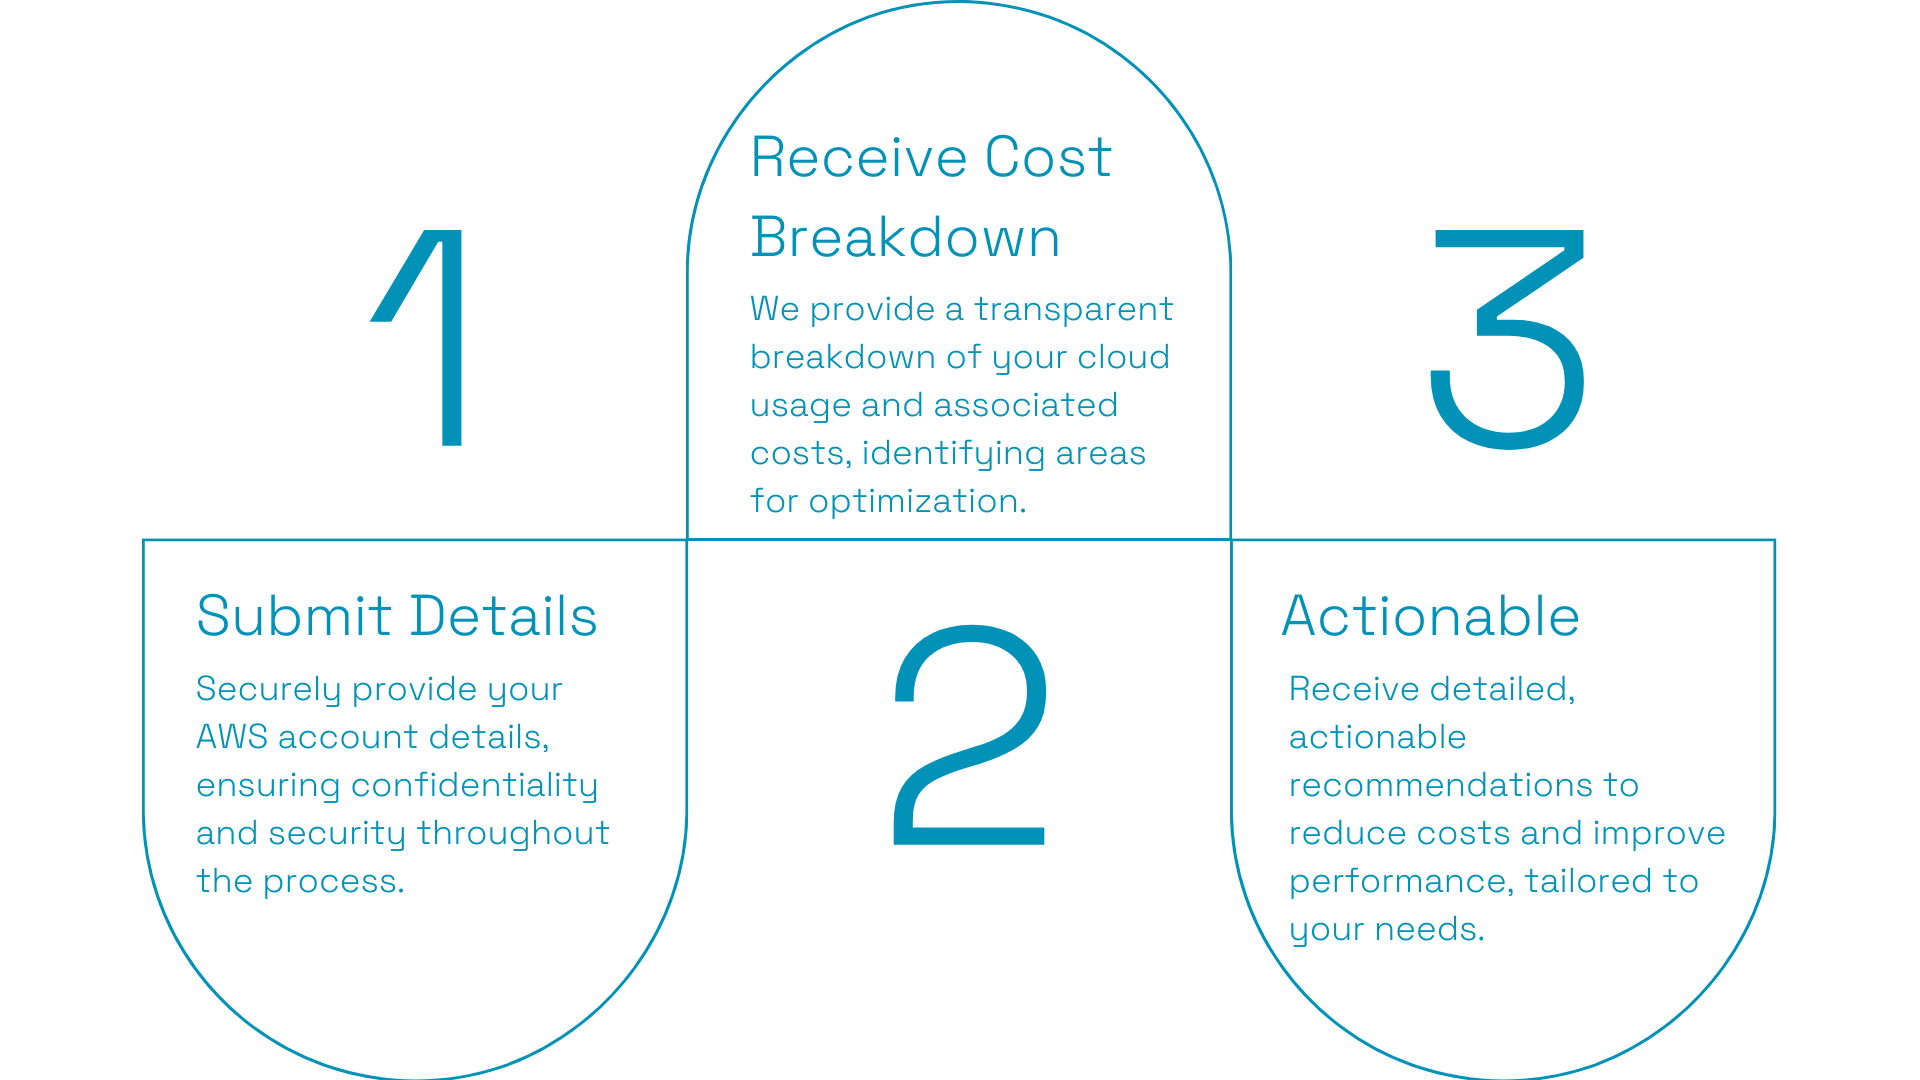
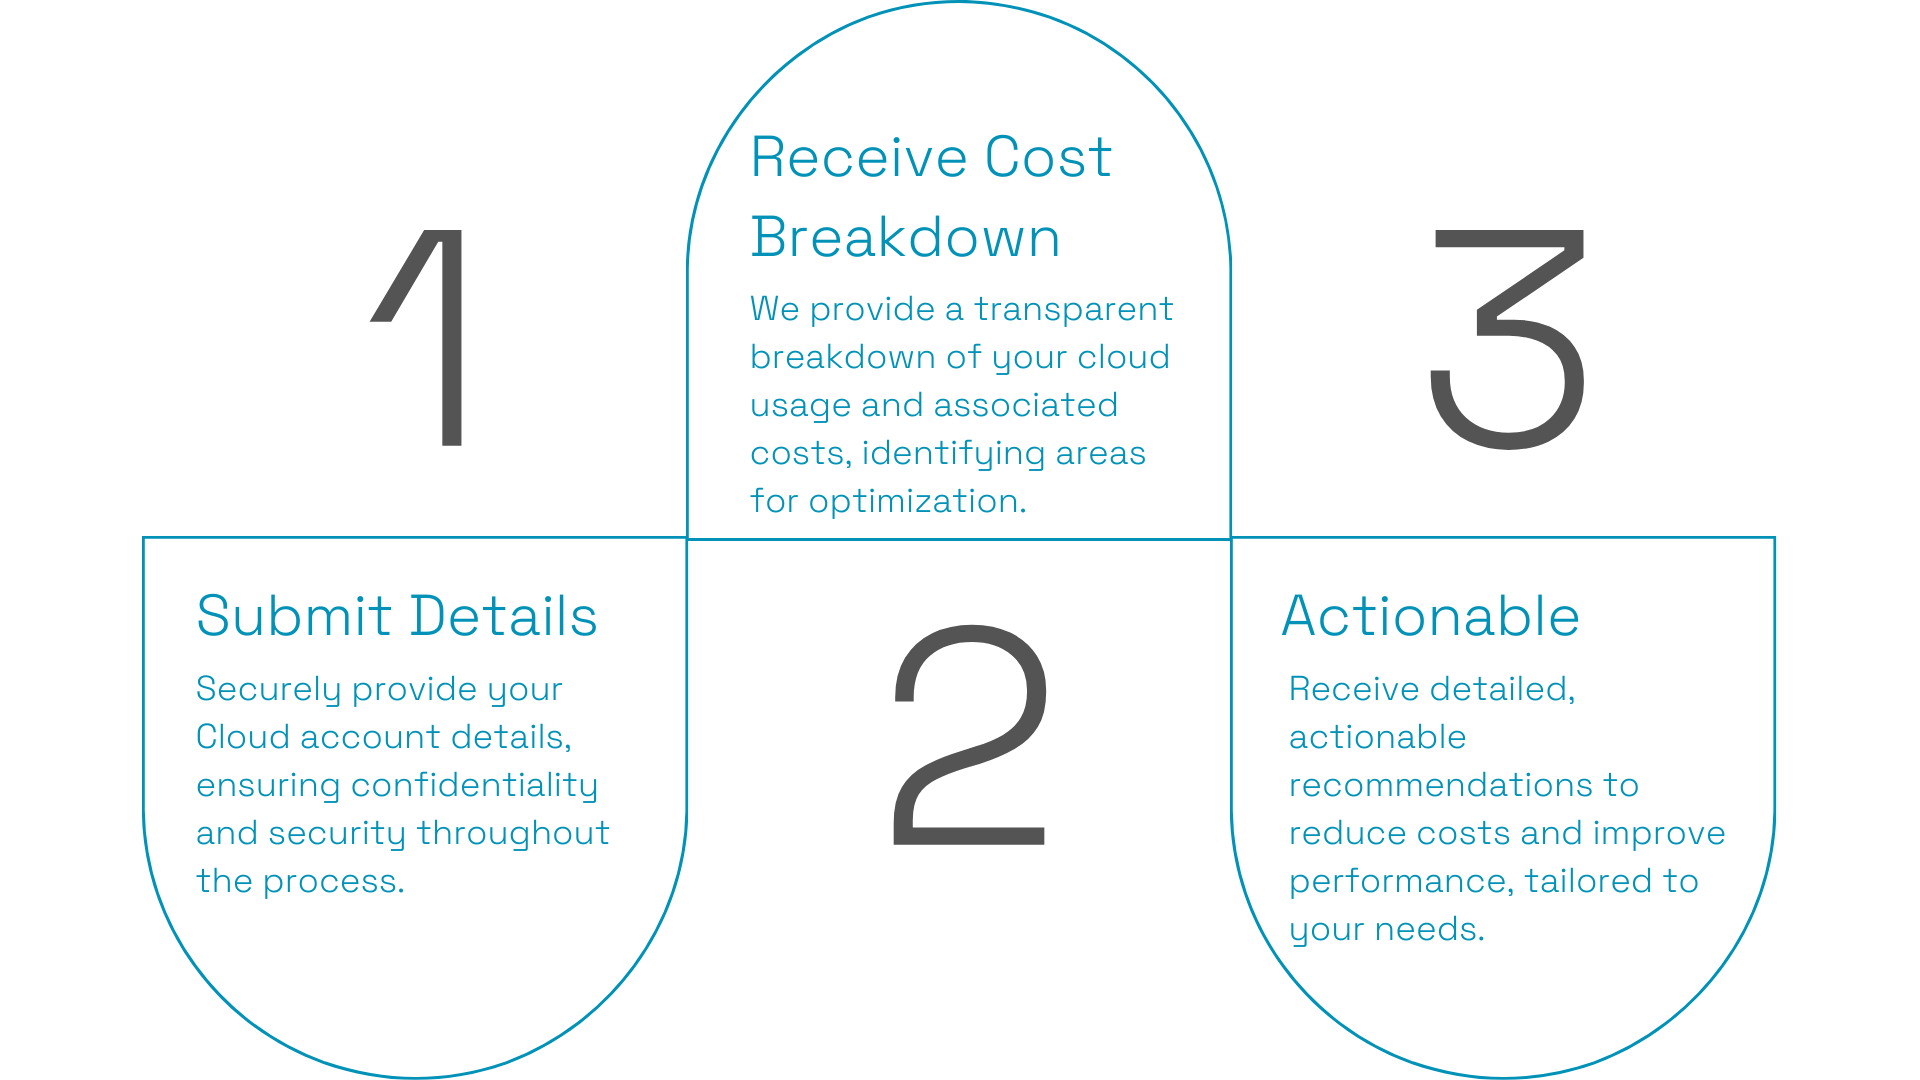
update in assesment page

diff --git a/src/pages/free-assesment-cloud-cost.js b/src/pages/free-assesment-cloud-cost.js
@@ -17,7 +17,7 @@ const Marquee = dynamic(() => import("react-fast-marquee"), { ssr: false });
 
 // Import icons from simple-icons
 import {
-    siAmazonaws,
+    siAmazonwebservices,
     siDigitalocean,
     siHeroku,
     siOpenstack,
@@ -28,11 +28,14 @@ import {
     siDocker,
     siGrafana,
     siPrometheus,
-    siRedis
+    siRedis,
+    siElasticsearch,
+    siMysql,
+    siMongodb
 } from "simple-icons";
 
 const techIcons = [
-    { icon: siAmazonaws, label: "AWS" },
+    { icon: siAmazonwebservices, label: "AWS" },
     { icon: siDigitalocean, label: "DigiOcean" },
     { icon: siHeroku, label: "Heroku" },
     { icon: siOpenstack, label: "Openstack" },
@@ -44,6 +47,9 @@ const techIcons = [
     { icon: siPrometheus, label: "Promet." },
     { icon: siRedis, label: "Redis" },
     { icon: siDocker, label: "Docker" },
+    { icon: siElasticsearch, label: "ELK" },
+    { icon: siMysql, label: "MySQL" },
+    { icon: siMongodb, label: "MongoDB" }
 ];
 
 const CloudOptimizationPage = () => {
@@ -57,7 +63,7 @@ const CloudOptimizationPage = () => {
             <Head>
                 <meta
                     name="keywords"
-                    content="cloud cost optimization, free assessment, AWS, Azure, GCP, cost savings"
+                    content="AWS cloud cost optimization, Free AWS cost assessment, Optimize AWS expenses, AWS cost management services, Reduce AWS billing, Save money on AWS cloud, Free AWS cost optimization consultation, AWS cost-saving tips, Detailed AWS usage analysis, Expert AWS cost reduction services, Start saving on AWS costs, Best AWS cost optimization strategies, Claim free AWS assessment, Cloud cost optimization for enterprises, AWS expense management for startups, cloud cost optimization"
                 />
             </Head>
 

diff --git a/src/pages/assesment-components/AboutUs.js b/src/pages/assesment-components/AboutUs.js
@@ -43,7 +43,7 @@ const AboutUsSection = () => {
             with smart strategies and expert support.
           </p>
           <a
-            href="#contact"
+            href="#free-assessment-form"
             className="inline-block bg-cyan-600 text-white font-semibold px-8 py-4 rounded-lg shadow-lg hover:bg-cyan-700 transition-transform transform"
           >
             Learn More About Us

diff --git a/src/pages/assesment-components/BenefitsSection.js b/src/pages/assesment-components/BenefitsSection.js
@@ -81,7 +81,7 @@ const BenefitsSection = () => {
             </div>
             <div className="text-center">
               <a
-                href="#"
+                href="#free-assessment-form"
                 className="inline-block bg-white text-cyan-600 font-bold px-8 py-4 rounded-lg shadow-lg hover:bg-gray-100 transition"
               >
                 {FreeAssessmentCTA.buttonText}

diff --git a/src/pages/assesment-components/HowItWorks.js b/src/pages/assesment-components/HowItWorks.js
@@ -12,7 +12,7 @@ const EnhancedHowItWorks = () => {
       >
         {/* Section Title */}
         <h2 className="text-4xl font-extrabold text-gray-900 mb-12">
-          How It Works
+          How It <span className="text-cyan-600">Works</span>
         </h2>
 
         {/* Image Representation */}
